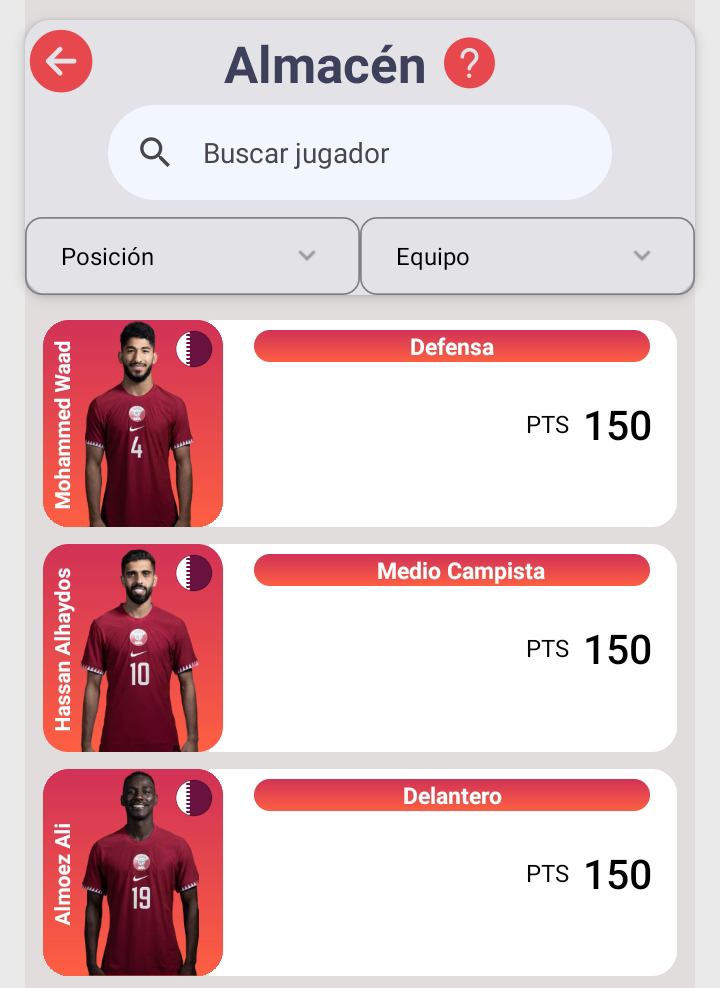
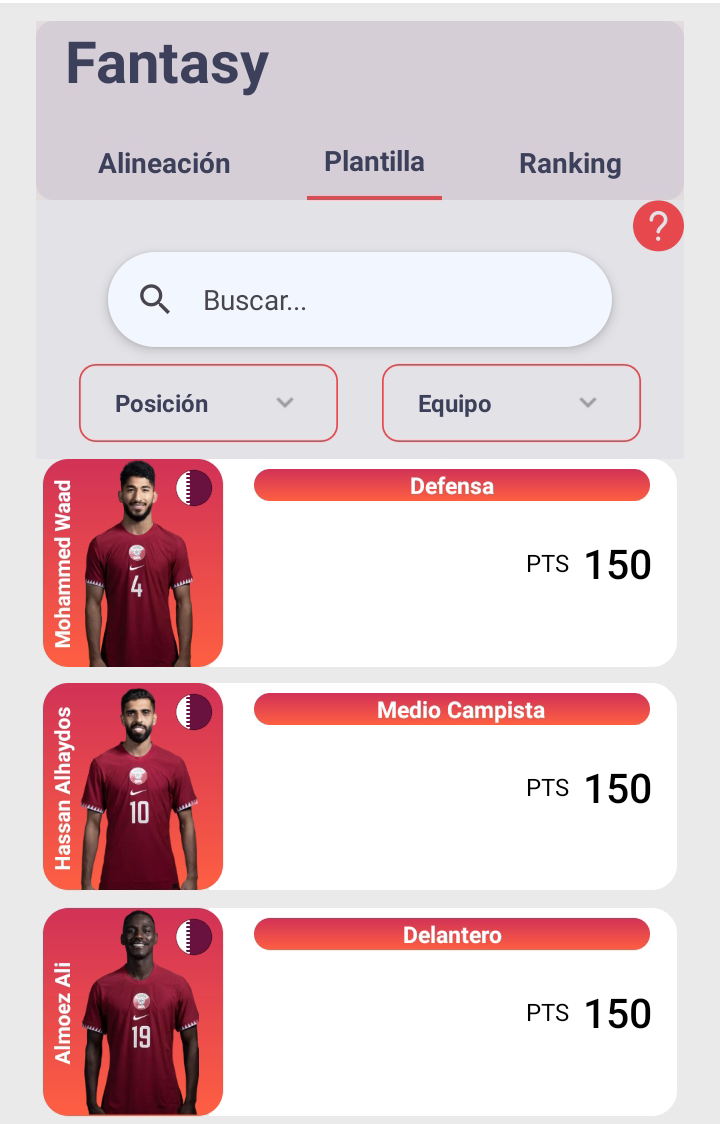
helpInfo changes

diff --git a/assets/app/helpLineup/index.js b/assets/app/helpLineup/index.js
@@ -1,7 +1,7 @@
 export default [
 	{
 		id: '1',
-		description: 'Para agregar a un jugador a tu alineación deberás entrar en el Almacén desde el botón de abajo',
+		description: 'Para agregar a un jugador a tu alineación deberás entrar en la plantilla desde el botón en la cabecera',
 		image: require('./h1.png')
 	},
 	{

diff --git a/assets/app/helpBench/index.js b/assets/app/helpBench/index.js
@@ -1,7 +1,7 @@
 export default [
 	{
 		id: '1',
-		description: 'En tu almacén verás los jugadores que están en tu alineación y en tu banca',
+		description: 'En tu plantilla verás los jugadores que están en tu alineación y en tu banca',
 		image: require('./h1.png')
 	},
 	{
